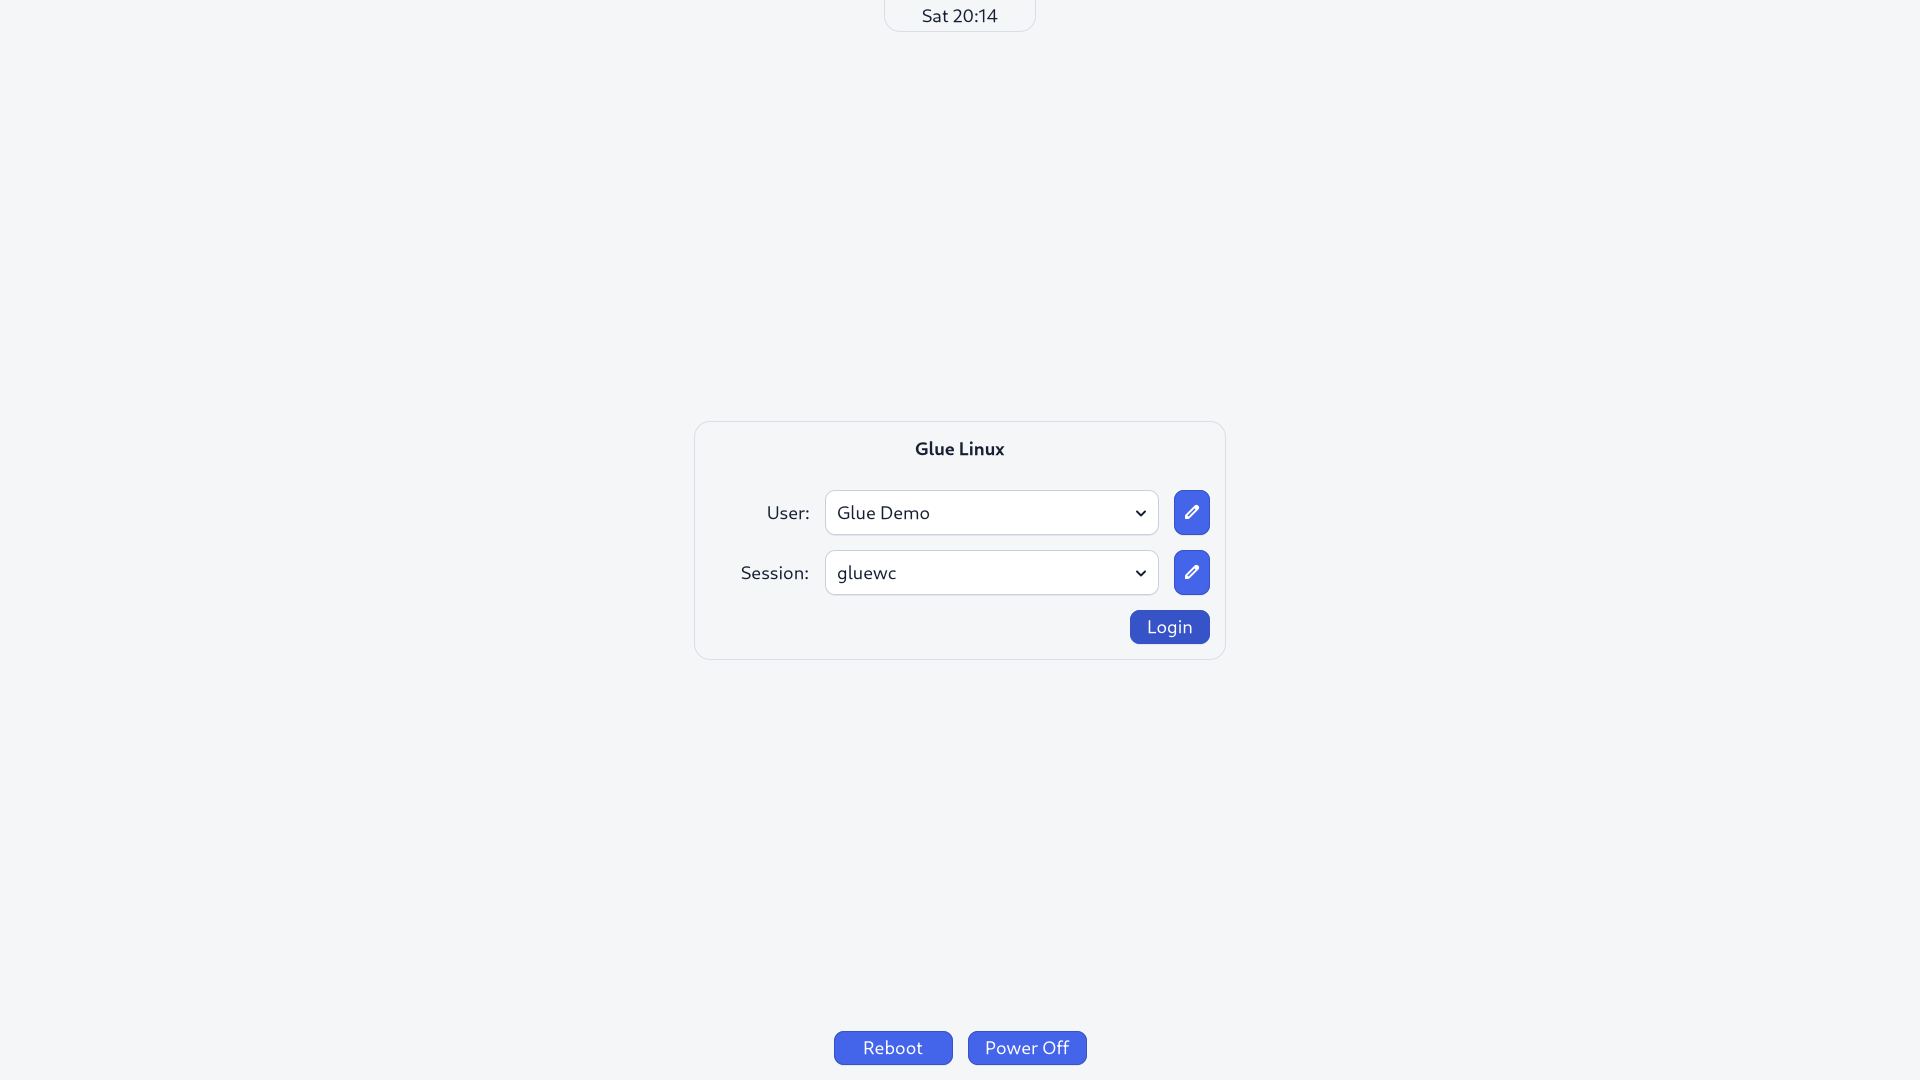
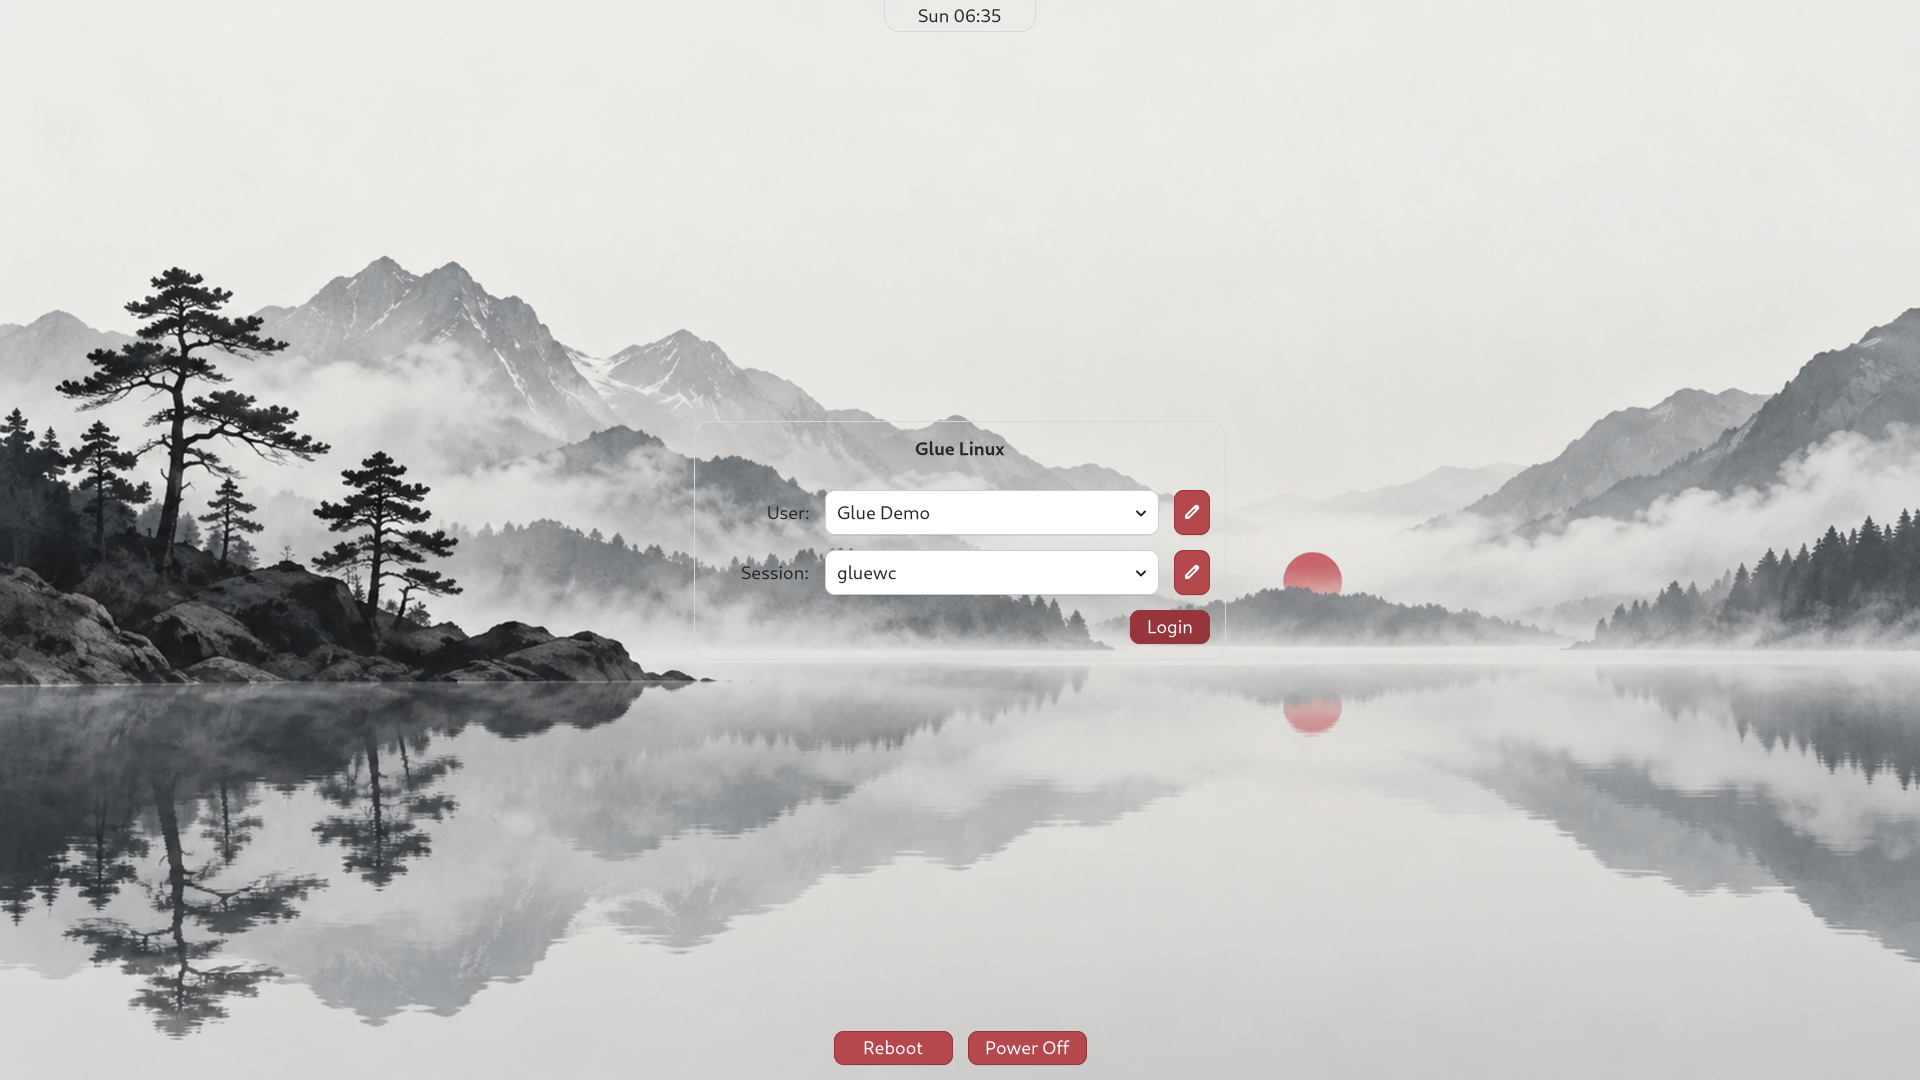
Branding: instaleaza wallpaperul Stillwater

diff --git a/packages/glue-installer/glue_installer/plan_greeter.py b/packages/glue-installer/glue_installer/plan_greeter.py
@@ -27,8 +27,11 @@ user = "greeter"
 
 _REGREET_CONFIG_CONTENT = """\
 # /etc/greetd/regreet.toml — written by the Glue Linux installer.
-# No [background] section: the default is Glue's solid CSS background.
 skip_selection = false
+
+[background]
+path = "/usr/share/backgrounds/glue/wallpaper.png"
+fit = "Cover"
 
 [GTK]
 application_prefer_dark_theme = false
@@ -46,26 +49,26 @@ x11_prefix = ["startx", "/usr/bin/env"]
 [appearance]
 greeting_msg = "Glue Linux"
 
-[widget.clock]
-format = "%a %H:%M"
-resolution = "1s"
 """
 
 _REGREET_CSS_CONTENT = """\
-/* Glue Linux ReGreet theme — clean, light and without a wallpaper. */
+/* Glue Linux ReGreet theme — neutral glass card over the default wallpaper. */
 * {
-    color: #172033;
+    color: #25272B;
 }
 
 window,
-.background,
+.background {
+    background-color: transparent;
+}
+
 .view {
-    background-color: #F4F6F8;
+    background-color: #FFFFFF;
 }
 
 frame {
-    background-color: #FFFFFF;
-    border: 1px solid #D9DFE8;
+    background-color: rgba(255, 255, 255, 0.92);
+    border: 1px solid #D5D7DA;
     border-radius: 16px;
 }
 
@@ -75,39 +78,39 @@ button * {
 }
 
 button {
-    background: #4465E9;
-    border: 1px solid #3654C7;
+    background: #B5484D;
+    border: 1px solid #96363C;
     border-radius: 10px;
 }
 
 button:hover,
 button:focus {
-    background: #3654C7;
+    background: #96363C;
 }
 
 entry,
 combobox button {
-    color: #172033;
+    color: #25272B;
     background: #FFFFFF;
-    border: 1px solid #C7D0DD;
+    border: 1px solid #C9CDD2;
     border-radius: 10px;
 }
 
 combobox button * {
-    color: #172033;
+    color: #25272B;
 }
 
 entry:focus,
 combobox button:focus {
-    border-color: #4465E9;
+    border-color: #B5484D;
 }
 """
 
 _TUIGREET_COMMAND = (
     "/usr/bin/tuigreet --remember --remember-session --time "
     "--greeting 'Glue Linux' --sessions /usr/share/glue/sessions "
-    "--theme 'border=yellow;text=white;prompt=yellow;time=yellow;"
-    "action=yellow;button=yellow;container=black;input=white'"
+    "--theme 'border=gray;text=white;prompt=red;time=white;"
+    "action=red;button=red;container=black;input=white'"
 )
 
 _GREETER_WRAPPER_CONTENT = f"""\
@@ -161,6 +164,7 @@ _SESSIONS_DIR = "/usr/share/glue/sessions"
 _WRAPPER_DIR = "/usr/local/bin"
 
 _POLKIT_AGENT = "/usr/lib/polkit-gnome/polkit-gnome-authentication-agent-1"
+_WALLPAPER_INIT = "/usr/bin/glue-wallpaper-init"
 
 # Poll for the compositor's Wayland socket, then start the chosen shell/bar
 # inside the same D-Bus session. Runs in the background of the wrapper's
@@ -241,7 +245,9 @@ def _portal_file(session: Session) -> Optional[PlannedFile]:
 # via xorg-xwayland) or the compositor managing its own (mutter/GNOME).
 
 
-def _session_wrapper_content(session: Session, shell_cmd: Optional[str]) -> str:
+def _session_wrapper_content(
+    session: Session, shell_cmd: Optional[str], shell_id: Optional[str] = None,
+) -> str:
     """Login-session wrapper: D-Bus session bus + PipeWire audio + the WM/DE
     (plus startx for X11 sessions). One generated file per selected session."""
     cmd = session.exec or session.id
@@ -263,6 +269,10 @@ def _session_wrapper_content(session: Session, shell_cmd: Optional[str]) -> str:
         "    command -v glue-welcome >/dev/null 2>&1 && glue-welcome --autostart &\n"
         if session.kind == "wm" else ""
     )
+    wallpaper_block = (
+        f"    [ -x {_WALLPAPER_INIT} ] && "
+        f"{_WALLPAPER_INIT} {session.id} {shell_id or 'none'} &\n"
+    )
     desktop = session.desktop or session.id
     return f"""\
 #!/bin/sh
@@ -273,7 +283,7 @@ if [ "${{1:-}}" = "--inner" ]; then
     command -v pipewire       >/dev/null 2>&1 && pipewire &
     command -v wireplumber    >/dev/null 2>&1 && wireplumber &
     command -v pipewire-pulse >/dev/null 2>&1 && pipewire-pulse &
-{polkit_block}{welcome_block}{shell_block}    exec {cmd}
+{polkit_block}{welcome_block}{wallpaper_block}{shell_block}    exec {cmd}
 fi
 
 {x11_block}export XDG_CURRENT_DESKTOP={desktop}
@@ -333,6 +343,7 @@ def _greeter_files(
             path=f"{_WRAPPER_DIR}/glue-session-{session.id}",
             content=_session_wrapper_content(
                 session, shell.exec if shell else None,
+                shell.id if shell else None,
             ),
             mode=0o755,
         ))

diff --git a/packages/glue-installer/tests/test_branding.py b/packages/glue-installer/tests/test_branding.py
@@ -2,9 +2,12 @@
 
 import hashlib
 import json
+import os
 import re
 import struct
+import subprocess
 import sys
+import tempfile
 import unittest
 import zlib
 from pathlib import Path
@@ -321,8 +324,9 @@ class WallpaperCandidateTest(unittest.TestCase):
 
     def test_credits_record_author_source_and_cc0(self):
         credits = (_BRANDING_ROOT / "WALLPAPER-CREDITS.md").read_text()
-        self.assertIn("Jaymantri", credits)
-        self.assertIn("commons.wikimedia.org", credits)
+        self.assertIn("OpenAI image generation", credits)
+        self.assertIn("Glue Linux project maintainer", credits)
+        self.assertIn("Generated original SHA-256", credits)
         self.assertIn("CC0 1.0", credits)
 
     def test_pkgbuild_installs_wallpaper_and_credits(self):
@@ -505,7 +509,7 @@ class BrandingImagesTest(unittest.TestCase):
 
         pinned_sha256 = {
[3 lines of base64/hex data omitted]
         }
 
         solid_backgrounds = {"grub-background.png"}
@@ -525,6 +529,52 @@ class BrandingImagesTest(unittest.TestCase):
                     f"{filename} SHA256 mismatch: {actual_sha256} != {expected}")
             else:
                 self.fail(f"PNG file {filename} is not in solid backgrounds or pinned list")
+
+
+class DefaultWallpaperTest(unittest.TestCase):
+
+    def setUp(self):
+        self.script = _BRANDING_ROOT / "glue-wallpaper-init"
+        self.pkgbuild = (_BRANDING_ROOT / "PKGBUILD").read_text()
+
+    def test_package_installs_wallpaper_initializer_and_first_login_marker(self):
+        self.assertIn('"$pkgdir/usr/bin/glue-wallpaper-init"', self.pkgbuild)
+        self.assertIn('"$pkgdir/etc/skel/.local/state/glue/wallpaper-pending"',
+                      self.pkgbuild)
+        self.assertTrue(self.script.stat().st_mode & 0o111)
+        result = subprocess.run(["sh", "-n", str(self.script)], capture_output=True)
+        self.assertEqual(result.returncode, 0, result.stderr.decode())
+
+    def test_gnome_applies_default_and_consumes_marker_once(self):
+        with tempfile.TemporaryDirectory() as temp:
+            root = Path(temp)
+            state = root / "state"
+            marker = state / "glue/wallpaper-pending"
+            marker.parent.mkdir(parents=True)
+            marker.touch()
+            wallpaper = root / "wallpaper.png"
+            wallpaper.write_bytes(b"test wallpaper")
+            bindir = root / "bin"
+            bindir.mkdir()
+            log = root / "gsettings.log"
+            fake = bindir / "gsettings"
+            fake.write_text('#!/bin/sh\nprintf "%s\\n" "$*" >> "$SETTINGS_LOG"\n')
+            fake.chmod(0o755)
+            env = os.environ.copy()
+            env.update({
+                "HOME": str(root), "XDG_STATE_HOME": str(state),
+                "GLUE_WALLPAPER_PATH": str(wallpaper), "PATH": f"{bindir}:{env['PATH']}",
+                "SETTINGS_LOG": str(log),
+            })
+            result = subprocess.run([str(self.script), "gnome"], env=env,
+                                    capture_output=True, text=True)
+            self.assertEqual(result.returncode, 0, result.stderr)
+            self.assertFalse(marker.exists())
+            calls = log.read_text().splitlines()
+            self.assertEqual(len(calls), 3)
+            self.assertIn("picture-uri file://", calls[0])
+            self.assertIn("picture-uri-dark file://", calls[1])
+            self.assertIn("picture-options zoom", calls[2])
 
 
 if __name__ == "__main__":

diff --git a/packages/glue-installer/tests/test_greeter_profile.py b/packages/glue-installer/tests/test_greeter_profile.py
@@ -31,16 +31,18 @@ def _session(session_id: str, session_type: str) -> Session:
 
 class ReGreetConfigTest(unittest.TestCase):
 
-    def test_toml_is_light_has_no_wallpaper_and_uses_glue_name(self):
+    def test_toml_uses_approved_wallpaper_and_glue_name(self):
         config = tomllib.loads(_REGREET_CONFIG_CONTENT)
-        self.assertNotIn("background", config)
+        self.assertEqual(config["background"]["path"],
+                         "/usr/share/backgrounds/glue/wallpaper.png")
+        self.assertEqual(config["background"]["fit"], "Cover")
         self.assertFalse(config["GTK"]["application_prefer_dark_theme"])
         self.assertEqual(config["appearance"]["greeting_msg"], "Glue Linux")
         self.assertFalse(config["skip_selection"])
 
     def test_css_uses_clean_neutral_palette_without_old_amber_theme(self):
-        for color in ("#F4F6F8", "#FFFFFF", "#172033", "#4465E9",
-                      "#D9DFE8"):
+        for color in ("#FFFFFF", "#25272B", "#B5484D", "#96363C",
+                      "#D5D7DA"):
             self.assertIn(color, _REGREET_CSS_CONTENT)
         for old_color in ("#100A02", "#A66900", "#F1B00A"):
             self.assertNotIn(old_color, _REGREET_CSS_CONTENT)
@@ -67,6 +69,17 @@ class GreeterLauncherTest(unittest.TestCase):
         self.assertIn("/usr/bin/tuigreet", _GREETER_WRAPPER_CONTENT)
         self.assertIn("--sessions /usr/share/glue/sessions",
                       _GREETER_WRAPPER_CONTENT)
+
+    def test_wrapper_installs_wallpaper_for_each_new_session(self):
+        from glue_installer.plan_greeter import _session_wrapper_content
+        wayland = _session("gluewc", "wayland")
+        x11 = _session("nvwm", "x11")
+        glueqs = _session_wrapper_content(wayland, "glueqs", "glueqs")
+        noctalia = _session_wrapper_content(wayland, "qs -c noctalia-shell", "noctalia")
+        desktop = _session_wrapper_content(x11, None)
+        self.assertIn("glue-wallpaper-init gluewc glueqs", glueqs)
+        self.assertIn("glue-wallpaper-init gluewc noctalia", noctalia)
+        self.assertIn("glue-wallpaper-init nvwm none", desktop)
 
     def test_wrapper_builds_regreet_view_from_glue_sessions(self):
         self.assertIn("/usr/share/glue/sessions/*.desktop",

diff --git a/.orchestrator/ROADMAP.md b/.orchestrator/ROADMAP.md
@@ -76,9 +76,10 @@ Surse: gluewc = `~/gluewc` (fork dwl 0.8, config runtime `~/.config/gluewc`, cer
 - [x] 5.4 Wrapperul de sesiune autostartează shell-ul ales prin mecanismul existent (polling socket). Agent polkit în fiecare sesiune WM (polkit-gnome pe gluewc/nvwm, polkit-kde-agent pe KDE) pornit din wrapper.
 - [x] 5.5 (implementat upstream în gluewc 0b16ff2, guard în PKGBUILD) gluewc: opțiune de config `adaptive_sync` per ieșire (`wlr_output_state_set_adaptive_sync_enabled`), default off; alacritty terminalul default în config.def.conf (Faza 8).
 - [x] 5.6 (ÎNCHIS 2026-10-03: 3 capturi headless + 4 DE din Wikimedia Commons via `scripts/fetch-screenshots.sh` + `SOURCES.tsv` + `CREDITS.md`; tasta P în TUI folosește chafa — fbida/fim/fbv nu există în Artix, chafa e în world și în live-profile) Poze REALE pentru fiecare opțiune: 8 fișiere PNG 1920×1080 în `packages/glue-installer/catalog/screenshots/`: `gluewc-glueqs.png`, `gluewc-noctalia.png` (același desktop gluewc, cu fiecare shell — un terminal alacritty cu fastfetch deschis + o fereastră firefox, wallpaper amber), `nvwm.png`, `kde-plasma.png`, `xfce.png`, `gnome.png`, `cinnamon.png`. gluewc/nvwm/greeter: generate headless în docker --privileged (compositor headless + shell pornit + grim/wshot; pentru X11 nvwm: Xvfb + xwd/import). KDE/GNOME/XFCE/Cinnamon: NU se pornesc în container — userul a decis (2026-10-03) că pozele lor se iau de pe net. Regula: DOAR din surse oficiale ale proiectelor sau Wikimedia Commons, cu licență liberă (CC-BY / CC-BY-SA / GPL): kde.org/announcements (Plasma 6.x), release-notes.gnome.org, xfce.org/about/screenshots sau docs.xfce.org, linuxmint.com/screenshots sau commons.wikimedia.org (Cinnamon). Descărcare cu `curl` în `scripts/fetch-screenshots.sh` (URL + sha256 per fișier, re-rulabil), convertite la PNG 1920×1080 (imagemagick, letterbox dacă e nevoie), și `screenshots/CREDITS.md` cu sursa + autor + licență pentru fiecare (obligatoriu pentru CC-BY-SA). Fără imagini aleatorii din Google Images fără licență cunoscută. Fiecare intrare de catalog (sesiune ȘI shell) are câmpul `screenshot` care pointează la fișierul real; testul de catalog pică dacă fișierul lipsește. TUI: tasta P le arată printr-un viewer de framebuffer existent în Artix (verifică fbida/fim/fbv, fallback chafa; dacă niciunul, calea + descriere). GUI (Faza 10): pozele apar pe carduri, mari, cu shell-urile glueqs/Noctalia una lângă alta la gluewc.
+- [ ] 5.6b Galerie de capturi atrăgătoare în installer (continuare 5.6, GUI în Faza 10): schimbă câmpul singular `screenshot` într-o listă `screenshots` per opțiune, păstrând temporar compatibilitatea catalogului existent; la gluewc arată galerii distincte pentru glueqs și Noctalia, fiecare cu captura barei și una cu Overview deschis. Cardul/overview al gluewc arată o captură reprezentativă, iar navigarea între imagini are butoane clare Înapoi/Înainte și indicator `1/N`, inclusiv fallback fără imagine. Regenerați capturile reale la 1920×1080 cu wallpaperul Stillwater aprobat, aceeași compoziție îngrijită (bară vizibilă, ferestre alese intenționat, fără terminale de debug sau cursoare rătăcite), culori coerente gri/alb cu accent roșu discret. Păstrează sursele/licențele în `screenshots/CREDITS.md`; testele verifică fiecare cale și căutările previzualiză toate imaginile din galerie. Revizuire vizuală a capturilor înainte de bifare.
 - [x] 5.7 gluewc + glueqs + noctalia-shell pe ISO-ul live pentru preview (regula un singur kernel).
 - [x] 5.9 Bara FUNCȚIONALĂ (glueqs și Noctalia) — ÎNCHIS 2026-10-03 (task-022, ADR-020): runtime în plan (`plan_session.py`), `gluewc-portals.conf`, guard XF86 în PKGBUILD, `scripts/bar-runtime-check.sh` verificat în container pentru ambele shell-uri (UPower/PowerProfiles/portal/wl-paste/playerctl/notificări); scrierea backlight-ului fără sudo și tastele XF86 reale rămân de verificat pe hardware (STATE). Original: — toate dependențele runtime prezente și pornite, nu doar instalate. Verificat în sursele glueqs: folosește Quickshell.Services.UPower (baterie), PowerProfiles (butoanele performance/balanced/power-saver din BatteryPanel), Pipewire (volum/mixer/media), `brightnessctl` (scrie luminozitatea; citește /sys/class/backlight + `udevadm monitor`), `nmcli` (rețea), `gluewc-msg`, `curl`. Deci pe orice sesiune gluewc: `upower` (world; upowerd pornește prin activare D-Bus, nu are nevoie de script de init — verifică pe E2E că `upower -i /org/freedesktop/UPower/devices/DisplayDevice` răspunde sub elogind), `power-profiles-daemon` + `power-profiles-daemon-<init>` enable-uit (altfel butoanele de profil din bară nu fac nimic), `pipewire pipewire-pulse wireplumber` + `rtkit` (audio fără cracking), `brightnessctl` (pachetul aduce regulile udev pentru grupul `video`; userul e deja în video — verifică că `brightnessctl set 50%` merge FĂRĂ sudo pe E2E cu un backlight fals), `playerctl` (media keys), `networkmanager` + `nmcli`, `libnotify` + un daemon de notificări doar dacă shell-ul nu are propriul (glueqs: verifică; Noctalia are), `wl-clipboard`, `xdg-desktop-portal` + `xdg-desktop-portal-wlr` + `-gtk` (activate la cerere prin D-Bus, nu permanente), `bluez` + `bluez-<init>` + `blueman` doar cu toggle-ul Bluetooth. Tastele XF86 în config.def.conf gluewc legate de `gluewc-backlight up|down`, `wpctl set-volume`/`set-mute`, `playerctl play-pause/next/previous`. Test headless: bara pornește cu toate serviciile de mai sus în container (UPower/PowerProfiles pot raporta „no device”, dar D-Bus-ul lor trebuie să răspundă, nu să lipsească).
-- [x] 5.8 (ÎNCHIS 2026-10-03, task-023; stil schimbat la cererea userului: luminos, curat, fără negru-portocaliu) Greeter nou = **regreet** sub cage, cu fundal solid gri foarte deschis, card alb, text bleumarin și accent albastru. Verificate: `greetd-regreet` 0.5.0 (galaxy; deps greetd accountsservice gtk4 cairo pango…), `greetd` (world); `cage` NU e în Artix → `packages/cage/` din PKGBUILD-ul Arch extra (0.3.1, depinde de wlroots0.20 din world). tuigreet rămâne DOAR ca fallback automat când nu există `/dev/dri/card*` (VM fără KMS): wrapperul greetd alege regreet-sub-cage sau tuigreet la boot. regreet.toml: FĂRĂ poză implicit, fără `background.path`; poza se poate alege din Glue Welcome (7.17), `GTK.application_prefer_dark_theme = false`, CSS light, lista de sesiuni din `/usr/share/glue/sessions` (.desktop-urile generate de installer, toate sesiunile instalate, cu numele lor prietenos), ține minte ultima sesiune/ultimul user (accountsservice). greetd pe VT7 rămâne cum e (tty1-6 getty). Test în container: cage headless + regreet pornește și listează sesiunile din director; poză a greeter-ului commit-uită ca `screenshots/greeter.png` și arătată în README.
+- [x] 5.8 (ÎNCHIS 2026-10-03, task-023; actualizat 2026-10-04 la cererea userului) Greeter = **regreet** sub cage, cu wallpaperul Stillwater ales (`/usr/share/backgrounds/glue/wallpaper.png`), card translucid alb/gri, text gri închis și accent roșu discret; fără vechiul stil negru-portocaliu. Verificate: `greetd-regreet` 0.5.0, `greetd`, `cage` din pachetul Glue; fallback automat la tuigreet fără KMS; sesiunile sunt generate de installer în `/usr/share/glue/sessions`. Captura curentă este `screenshots/greeter.png` și este verificată headless la 1920×1080.
 - Criteriu: catalog validat (6 sesiuni, 2 shells), teste UI pe preselecție + shell choice, pachetele se construiesc în ordinea corectă în make-iso.sh, E2E instalează gluewc+glueqs pe runit și dinit.
 
 ## Faza 8 — Alacritty cu configul userului + fastfetch la deschidere

diff --git a/packages/glue-branding/WALLPAPER-CREDITS.md b/packages/glue-branding/WALLPAPER-CREDITS.md
@@ -1,13 +1,13 @@
-# Glue wallpaper candidate
+# Glue Linux default wallpaper
 
-- **Title:** Nature-forest-trees-fog
-- **Author:** Jaymantri
-- **Source:** https://commons.wikimedia.org/wiki/File:Nature-forest-trees-fog.jpg
-- **Original file:** https://upload.wikimedia.org/wikipedia/commons/4/4f/Nature-forest-trees-fog.jpg
+- **Title:** Stillwater
+- **Author:** Glue Linux project, generated with OpenAI image generation
+- **Selected by:** Glue Linux project maintainer
 - **License:** CC0 1.0 Universal Public Domain Dedication
[1 lines of base64/hex data omitted]
+- **Generated original:** 1672×941 PNG
[1 lines of base64/hex data omitted]
 
-The committed PNG is a centered 1920×1080 crop of the original photograph,
-with metadata removed. CC0 allows copying, modification and commercial
-redistribution without requiring permission or attribution. The credit is
-retained so the source stays easy to audit.
+The committed image is a centered 1920×1080 resize of the selected generated
+original, with metadata removed. The Glue Linux project dedicates this asset
+to the public domain under CC0 to the extent permitted by law, so it can be
+copied, modified and redistributed with the distribution.
